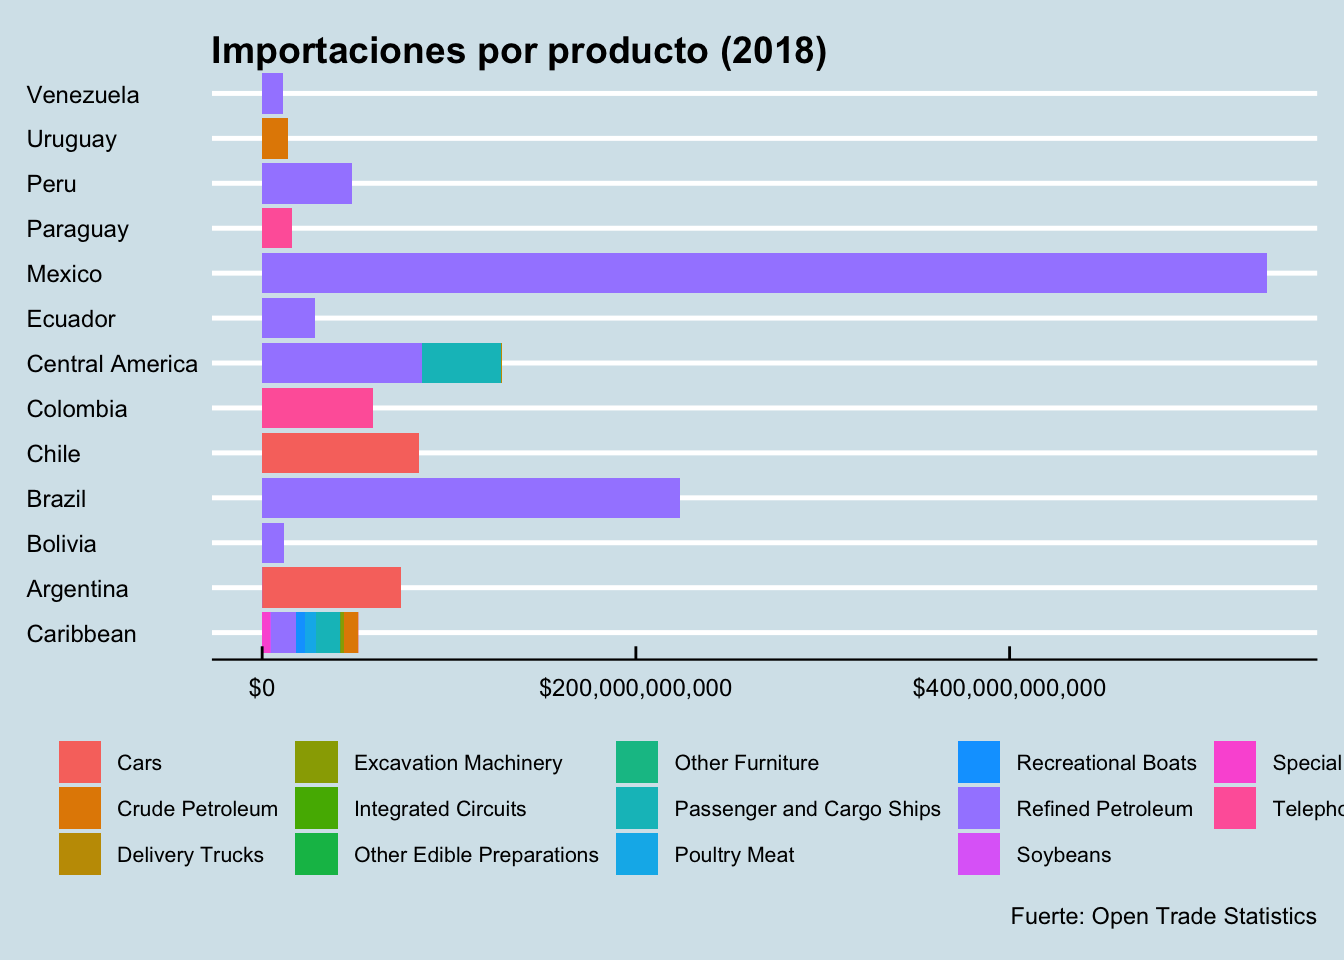
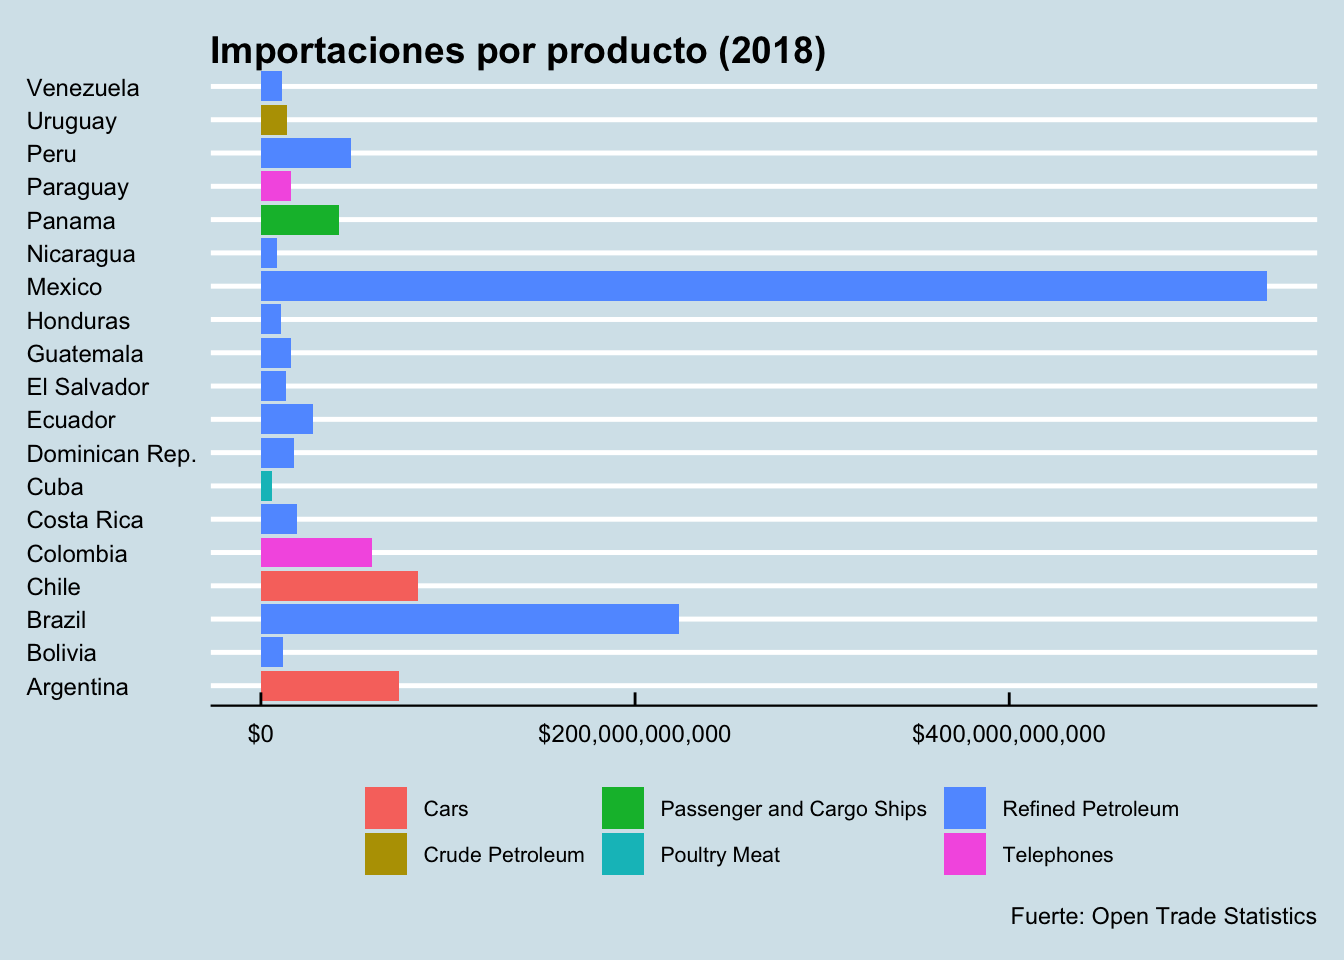
Updating description on the import analysis

Changed region(s): [[0.0, 0.0312, 1.0, 0.9375]]

diff --git a/content/post/2020-12-07-importacion/index.html b/content/post/2020-12-07-importacion/index.html
@@ -14,46 +14,57 @@ output:
 <script src="index_files/anchor-sections/anchor-sections.js"></script>
 
 
-<p>En este post, querría analizar qué países en América Latina importa más productos graphicandolo con un mapa de color utilizando el paquete de Rworldmaps. Existen varios paquetes para realizar mapas, pero me gustó el simple diseño de Rworldmaps. Si aún no tienes Rworldmap installado se puede instalar acá:</p>
-<p>install.packages(“rworldmap”)</p>
+<p>En el último post sobre los flujos del comercio exterior en América Latina en una perspectiva histórica analisé un poco sobre qué productos principalmente son importados en la región. En este post, quiero analizar este flujos de importación un poco más para entender un poco mejor qué país importa qué tipo de productos.</p>
+<p>El post está divido en tres analisis diferentes:</p>
+<ol style="list-style-type: decimal">
+<li><p>Un analisis graficando qué países importó más en total en USD en 2018 utilizando un mapa de color del paquete de Rworldmaps.
+Existen varios paquetes para realizar mapas, pero me gustó el simple diseño de Rworldmaps. Si aún no tienes Rworldmap installado se puede instalar con este comando:</p></li>
+<li><p>Un analisis mostrando la composición de los productos más importados - también durante el año 2018.</p></li>
+<li><p>Finalmente, un analisis sobre qué categoría de producto cada país en la región importa más.</p></li>
+</ol>
 <div id="las-libraría-utilizadas" class="section level3">
 <h3>Las libraría utilizadas:</h3>
 <pre class="r"><code>library(tidyverse)
-library(tradestatistics)
-library(ggplot2)
-library(rworldmap)
-library(treemapify)
-library(ggthemes)
-library(scales)</code></pre>
+library(tradestatistics) #Para descarga los data frames
+library(ggplot2) #Para graficar
+library(rworldmap) #Para graficar el mapa del América Latina
+library(treemapify) #Para graficar la composición de los productos más importados
+library(ggthemes) #Para utilizar el tema especial de ggplot del Economist
+library(scales) #Para cambiar el y-axis en los graficos de ggplot a USD </code></pre>
 </div>
-<div id="los-datos" class="section level2">
-<h2>Los datos</h2>
-<p>Descargo el base de datos:
-I rename the column “reporter_iso” to be able to merge it with the second data frame from Open Trade Statistics:</p>
+<div id="preparando-los-datos" class="section level2">
+<h2>Preparando los datos</h2>
+<div id="descargando-los-datos" class="section level3">
+<h3>Descargando los datos</h3>
+<p>Cómo en el primer post sobre el comercio exterior, necesito descargar el data frame y modificar el nombre de la columna “reporter_iso” a “country_iso” para poder unirlo con el segundo data frame que separa más fácilmente los países de la región de “las Americas” al resto del mundo:</p>
 <pre class="r"><code>comercio_mundo_api &lt;- tradestatistics::ots_create_tidy_data(
   years = 2018, 
   reporters = &quot;all&quot;, 
   partners = &quot;all&quot;, 
   products = &quot;all&quot;) %&gt;%
   rename(country_iso = &#39;reporter_iso&#39;)</code></pre>
-<p>From another data base in Open Trade Statistics, I can choose only countries belonging to the continent of The Americas:</p>
+<p>Ahora puedo descargar el data frame de Open Trade Statistics sobre los país, y como anteriormente, eligo filtear la región (o continente) de las Americas:</p>
 <pre class="r"><code>countries_LATAM &lt;- tradestatistics::ots_countries %&gt;%
   filter(continent == &quot;Americas&quot;) </code></pre>
-<p>Merging the two data frames, I now get a data frame including information only for the region of the Americas.</p>
+<p>Después puedo unir los dos data frames para que tenga un que solamente incluye información sobre los país de las Americas:</p>
 <pre class="r"><code>comercio_latam &lt;- merge(x = comercio_mundo_api, y = countries_LATAM,
       by = &quot;country_iso&quot;)</code></pre>
 </div>
-<div id="transformando-los-datos" class="section level2">
-<h2>Transformando los datos</h2>
-<p>I select the row that I want to use to create the map with, however, I leave the data frame with all the info for trade in Latin America, so I can return and use it for another graph.</p>
+</div>
+<div id="mapamundi-de-importaciones" class="section level2">
+<h2>Mapamundi de importaciones</h2>
+<div id="transformando-los-datos" class="section level3">
+<h3>Transformando los datos</h3>
+<p>Eligo las variables que necesito para generar el mapa. No obstante, dejo esta información en un nuevo data frame, para que pueda volver a utilizar la información completa sobre importaciones en América Latina en los otros graficos subsequentes.</p>
 <pre class="r"><code>comercio_latam_import &lt;- comercio_latam %&gt;%
   select(country_iso,
          reporter_fullname_english,
          import_value_usd)</code></pre>
 </div>
+</div>
 <div id="graficando" class="section level2">
 <h2>Graficando</h2>
-<p>En primer lugar, tengo que asegurar que la identificación de los países en mi base de dato se va a ser entendido por el paquete de Rworldmaps:</p>
+<p>En primer lugar, tengo que asegurar que la identificación de los países en mi data frame se va a ser entendido por el paquete de Rworldmaps. Después puedo genera el mapa:</p>
 <pre class="r"><code>
 mapped_data &lt;- joinCountryData2Map(comercio_latam_import, 
                                    joinCode = &quot;NAME&quot;, 
@@ -64,16 +75,22 @@ mapped_data &lt;- joinCountryData2Map(comercio_latam_import,
 
 mapCountryData(mapped_data, 
                nameColumnToPlot = &quot;import_value_usd&quot;, 
-               mapRegion = &quot;latin america&quot;)</code></pre>
-<p><img src="index_files/figure-html/comercio%20LATAM%20mapped%20data-1.png" width="672" /></p>
-<p>Eso es un montón de rojo! La mayoría de los países de la región bastante importa bastante productos. Menos algunos países chicos en America Central, el Caribe, Venezuela, Bolivia y Uruguy, los cuales parecen ser los que menos importan.</p>
-<p>Será interesante, analizar qué productos se que más se importaba en los paises de América Latin en 2018:</p>
+               mapRegion = &quot;latin america&quot;,
+               mapTitle = &quot;Importación 2018&quot;)</code></pre>
+<p><img src="index_files/figure-html/comercio%20LATAM%20mapped%20data-1.png" width="672" />
+### Sum-up
+Eso es un montón de rojo!</p>
+<p>El mapa parece indicar que la mayoría de los países de la región importan más o menos el mismo nivel. Menos algunos países chicos en America Central, el Caribe, Venezuela, Bolivia y Uruguay, los cuales parecen ser los que menos importan.</p>
+<p>Pero la verdad que el mapa nos dice poco sobre los niveles de importación de cada país. Obviamente, se podría empezar a jugar con crear diferentes escales de colores para los differentes niveles de importación en USD, pero la verdad que no me animaba mucho :)</p>
+<p>Lo qué sí sería interesante analizar qué tipo de productos son los que más se importaron los paises de América Latin en 2018.</p>
 </div>
-<div id="productos-de-importación-en-2018" class="section level1">
-<h1>Productos de importación en 2018</h1>
-<p>Desde otro base de datos de Open Trade Statistics, puedo descargar los nombres de los productos:</p>
-<div id="transformando-los-datos-1" class="section level2">
-<h2>Transformando los datos:</h2>
+<div id="productos-más-importado-por-categoría-en-2018" class="section level2">
+<h2>Productos más importado por categoría en 2018</h2>
+<p>Entonces, en esta segunda parte de mi post sobre importaciones en América Latina en el año 2018 quiero realizar un analisis sobre las categorías de productos más importados en 2018 utilizando el grafico “treemap” lo cual me gusto porque parece muy inituitivo.</p>
+<div id="transformando-los-datos-1" class="section level3">
+<h3>Transformando los datos</h3>
+<p>En primero lugar, necesito descargar información sobre los productos desde otro base de datos de Open Trade Statistics y unirlo con el data frame que ya tengo sobre la importación en América Latina en el año 2018.</p>
+<p>También necesito sacar los países que no corresponde a la región como hice en el primer post. Vale notar que en el analisis arriba del Rworldmaps, la pre-programación del paquete de Rworldmaps automaticamente sacó los países que el paquete no considerable correspondía a la región de América Latina.</p>
 <pre class="r"><code>productos_latam &lt;- tradestatistics::ots_products_shortnames %&gt;%
   rename(top_import_product_code = &quot;product_code&quot;)
 
@@ -86,10 +103,9 @@ productos_latam_import &lt;- merge(x = comercio_latam,
          reporter_fullname_english != &quot;Greenland&quot;,
          reporter_fullname_english != &quot;Br. Virgin Isds&quot;,
          reporter_fullname_english != &quot;United States Minor Outlying Islands&quot;,
-         reporter_fullname_english != &quot;South Georgia and the South Sandwich Islands&quot;)</code></pre>
-</div>
-<div id="productos-más-importado-por-categoría" class="section level2">
-<h2>Productos más importado por categoría:</h2>
+         reporter_fullname_english != &quot;South Georgia and the South Sandwich Islands&quot;) %&gt;%
+  drop_na()</code></pre>
+<p>Ahora puedo eligir las variables que necesito para generar el treemap y modificar los que quiero modificar. Por ejemplo, necesito sumar el valor importado por producto, y generar una variable que me permite demostrar el porcentaje de cada categoría de productos en relación al total:</p>
 <pre class="r"><code>productos_latam_import_2018 &lt;- productos_latam_import %&gt;%
   select(top_import_product_code,
          product_shortname_english,
@@ -98,13 +114,12 @@ productos_latam_import &lt;- merge(x = comercio_latam,
   summarise(import_value_usd = sum(import_value_usd, na.rm = T)) %&gt;%
   ungroup() %&gt;%
   mutate(
-    etiquetas = paste0(product_shortname_english, &quot;/&quot;, round(100*import_value_usd/sum(import_value_usd), 2), &quot;%&quot;)
-    ) %&gt;%
-  drop_na()</code></pre>
+    etiquetas = paste0(product_shortname_english, &quot;/&quot;, round(100*import_value_usd/sum(import_value_usd), 2), &quot;%&quot;)) </code></pre>
 </div>
-<div id="graficando-1" class="section level2">
-<h2>Graficando</h2>
-<pre class="r"><code>producto_2018 &lt;- ggplot(productos_latam_import_2018, aes(
+<div id="graficando-1" class="section level3">
+<h3>Graficando</h3>
+<p>Ahora que tengo los datos transformados puedo generar el grapfico:</p>
+<pre class="r"><code>ggplot(productos_latam_import_2018, aes(
   area = import_value_usd,
   fill = product_shortname_english,
   label = etiquetas)) +
@@ -117,62 +132,90 @@ productos_latam_import &lt;- merge(x = comercio_latam,
        caption = &quot;Fuente: Open Trade Statistics&quot;) +
   theme_economist() +
   theme(plot.title = element_text(size = 12),
-    legend.position = &quot;none&quot;)
-
-producto_2018</code></pre>
-<p><img src="index_files/figure-html/LATAM%20productos%20categori%CC%81a%20graficar-1.png" width="672" /></p>
-<p>Está claro que el producto que más se importa en América Latina en 2018 eran autos y petroleum refineado.</p>
-<p>Pero qué países importan más de esos dos productos?</p>
+    legend.position = &quot;none&quot;)</code></pre>
+<p><img src="index_files/figure-html/LATAM%20productos%20categori%CC%81a%20graficar-1.png" width="672" />
+### Sum-up
+Está claro que el producto que más se importa en América Latina en 2018 eran petroleum refineado (74,53%) y autos (12,28%). Eso se alinea muy bien con los hallazgos del breve analisis de la evolución de los flujos de importación en la región.</p>
+<p>Lo qué tal vez suprende es que telefonos ocupa un 5,88% de los productos importados y barcos de pasajes y cargo un 4,24%.</p>
+<p>No obstante, la tendencia de 2018 subraya lo mencionado en el post anterior: son productos que fabriados y generalmente productos que requiere altos nivels de technología que se importan en América Latina. Eso es preocupante, porqué significa que son productos que la región no produce ellos. La falta de impuestos de trabajo que requiere capacidades técnicos especializados es según los investigadores clave para que América Latina salga de la trampa del medio ingreso.</p>
+<p>Obviamente, se podría modificar los nombres de los productos para que se queden en español - pero este te debo :)</p>
+</div>
 </div>
 <div id="categoría-de-productos-más-importado-por-país" class="section level2">
 <h2>Categoría de productos más importado por país:</h2>
-<p>Para no tener un gráfico muy largo, en primer lugar, organizo los países del Caribe en la misma categoría como hice en el primer post:</p>
+<p>En esta última parte del post sobre importación en América Latina, quiero analizar qué países importa de qué categoría de producto:</p>
+<div id="transformando-los-datos-2" class="section level3">
+<h3>Transformando los datos</h3>
+<p>En primer lugar, quiero poder cambiar el nombre de Panama, lo cual en el data frama de Open Trade Statistics tiene un nombre muy largo y quiero colapsar Malvinas dentro de la observación de Argentina. Entonces, necesito modificar la columna de “reporter_fullname_english” para que sea un factor.</p>
 <pre class="r"><code>import_countries_modificied &lt;- productos_latam_import %&gt;%
   mutate(reporter_fullname_english = as.factor(reporter_fullname_english)) </code></pre>
+<p>En segundo lugar, para no tener un gráfico muy largo, elegio sacar todos los pequeños países del Caribe menos Cuba. Después puedo agrupar por país y por producto:</p>
 <pre class="r"><code>import_countries_2018 &lt;- import_countries_modificied %&gt;%
   select(reporter_fullname_english,
          import_value_usd,
          product_shortname_english) %&gt;%
+  filter(reporter_fullname_english != &quot;Anguilla&quot;,
+         reporter_fullname_english != &quot;Antigua and Barbuda&quot;,
+         reporter_fullname_english != &quot;Bahamas&quot;,
+         reporter_fullname_english != &quot;Bahamas&quot;,
+         reporter_fullname_english != &quot;Barbados&quot;,
+         reporter_fullname_english != &quot;Belize&quot;,
+         reporter_fullname_english != &quot;Bermuda&quot;,
+         reporter_fullname_english != &quot;Bouvet Island&quot;,
+         reporter_fullname_english != &quot;Cocos Isds&quot;,
+         reporter_fullname_english != &quot;Cayman Isds&quot;,
+         reporter_fullname_english != &quot;Grenada&quot;,
+         reporter_fullname_english != &quot;Guyana&quot;,
+         reporter_fullname_english != &quot;Haiti&quot;,
+         reporter_fullname_english != &quot;Jamaica&quot;,
+         reporter_fullname_english != &quot;Saint Kitts and Nevis (includes Anguilla until 1981)&quot;,
+         reporter_fullname_english != &quot;Saint Lucia&quot;,
+         reporter_fullname_english != &quot;Montserrat&quot;,
+         reporter_fullname_english != &quot;Saint Pierre and Miquelon&quot;,
+         reporter_fullname_english != &quot;Suriname&quot;,
+         reporter_fullname_english != &quot;Turks and Caicos Isds&quot;,
+         reporter_fullname_english != &quot;Trinidad and Tobago&quot;,
+         reporter_fullname_english != &quot;Saint Vincent and the Grenadines&quot;) %&gt;%
   mutate(reporter_fullname_english = fct_collapse(reporter_fullname_english,
-            &quot;Caribbean&quot; = c(&quot;Anguilla&quot;, 
-                            &quot;Antigua and Barbuda&quot;,
-                            &quot;Bahamas&quot;,
-                            &quot;Barbados&quot;,
-                            &quot;Belize&quot;,
-                            &quot;Bermuda&quot;,
-                            &quot;Bouvet Island&quot;,
-                            &quot;Cocos Isds&quot;,
-                            &quot;Cayman Isds&quot;,
-                            &quot;Cuba&quot;,
-                            &quot;Grenada&quot;,
-                            &quot;Guyana&quot;,
-                            &quot;Haiti&quot;,
-                            &quot;Jamaica&quot;,
-                            &quot;Saint Kitts and Nevis (includes Anguilla until 1981)&quot;,
-                            &quot;Saint Lucia&quot;,
-                            &quot;Montserrat&quot;,
-                            &quot;Saint Pierre and Miquelon&quot;,
-                            &quot;Suriname&quot;,
-                            &quot;Turks and Caicos Isds&quot;,
-                            &quot;Trinidad and Tobago&quot;,
-                            &quot;Saint Vincent and the Grenadines&quot;),
-      &quot;Central America&quot; = c(&quot;Costa Rica&quot;,
-                            &quot;Dominica&quot;,
-                            &quot;Dominican Rep.&quot;,
-                            &quot;El Salvador&quot;,
-                            &quot;Guatemala&quot;,
-                            &quot;Honduras&quot;,
-                            &quot;Nicaragua&quot;,
-                            &quot;Panama (excludes Panama Canal Zone until 1978)&quot;),
-             &quot;Argentina&quot; = c(&quot;Argentina&quot;, 
+            &quot;Panama&quot;    = c(&quot;Panama (excludes Panama Canal Zone until 1978)&quot;),
+            &quot;Argentina&quot; = c(&quot;Argentina&quot;, 
                              &quot;Falkland Isds (Malvinas)&quot;))) %&gt;% 
   group_by(reporter_fullname_english, 
            product_shortname_english) %&gt;%
-  summarise(import_value_usd = sum(import_value_usd, na.rm = T)) %&gt;%
   arrange(desc(import_value_usd)) %&gt;%
-  drop_na()</code></pre>
+  drop_na()
+## Warning: Problem with `mutate()` input `reporter_fullname_english`.
+## ℹ Unknown levels in `f`: Falkland Isds (Malvinas)
+## ℹ Input `reporter_fullname_english` is `fct_collapse(...)`.
+## Warning: Unknown levels in `f`: Falkland Isds (Malvinas)
+
+tibble(import_countries_2018)
+## # A tibble: 19 x 3
+##    reporter_fullname_english import_value_usd product_shortname_english
+##    &lt;fct&gt;                                &lt;dbl&gt; &lt;chr&gt;                    
+##  1 Mexico                        537843736831 Refined Petroleum        
+##  2 Brazil                        223647357730 Refined Petroleum        
+##  3 Chile                          83743442685 Cars                     
+##  4 Argentina                      74043010231 Cars                     
+##  5 Colombia                       59519214575 Telephones               
+##  6 Peru                           48041977814 Refined Petroleum        
+##  7 Panama                         41961011765 Passenger and Cargo Ships
+##  8 Ecuador                        28021776726 Refined Petroleum        
+##  9 Costa Rica                     19101489498 Refined Petroleum        
+## 10 Dominican Rep.                 17851484586 Refined Petroleum        
+## 11 Guatemala                      16257301458 Refined Petroleum        
+## 12 Paraguay                       16123799211 Telephones               
+## 13 Uruguay                        13719463335 Crude Petroleum          
+## 14 El Salvador                    13472233660 Refined Petroleum        
+## 15 Bolivia                        11588766426 Refined Petroleum        
+## 16 Venezuela                      11188570352 Refined Petroleum        
+## 17 Honduras                       10587997436 Refined Petroleum        
+## 18 Nicaragua                       8482815845 Refined Petroleum        
+## 19 Cuba                            6104401480 Poultry Meat</code></pre>
+</div>
 <div id="graficando-2" class="section level3">
 <h3>Graficando</h3>
+<p>El tibble da un buena idea de qué países importaron más de los diferentes productos, pero en un grafico se ve mucho mejor:</p>
 <pre class="r"><code>ggplot(import_countries_2018, aes(
   x = reporter_fullname_english,
   y = import_value_usd,
@@ -194,8 +237,9 @@ producto_2018</code></pre>
     legend.position = &quot;bottom&quot;) +
   guides(color=guide_legend(&quot;Categoría de producto&quot;)) +
   coord_flip()</code></pre>
-<p><img src="index_files/figure-html/comercio%20LATAM%20productos%20graficar-1.png" width="672" /></p>
-<p>Entonces…</p>
-</div>
+<p><img src="index_files/figure-html/comercio%20LATAM%20productos%20graficar-1.png" width="672" />
+### Sum-up
+El grafico muestra claramente, lo que encontramos en la segunda parte de este post: petroleo refinado es el producto más importado en América Latina en 2018. Además, son los dos grandes comerciantes, México y Brasil, quierens importa más. No obstante, muchos países en América Central les sigue con petroleo refinado como su principal producto de importación.</p>
+<p>Otras observaciones interesantes: (1) Argentia y Chile son los principales importados de autos. (2) Colombia y Paraguay son los dos países que tiene los telefonos como el principal producto de importación, mientras que Panama es el país que principalmente importa los barco que vimos en el analisis arriba - y eso casi tantos barcos como Perú importa petroleo refinado!</p>
 </div>
 </div>
